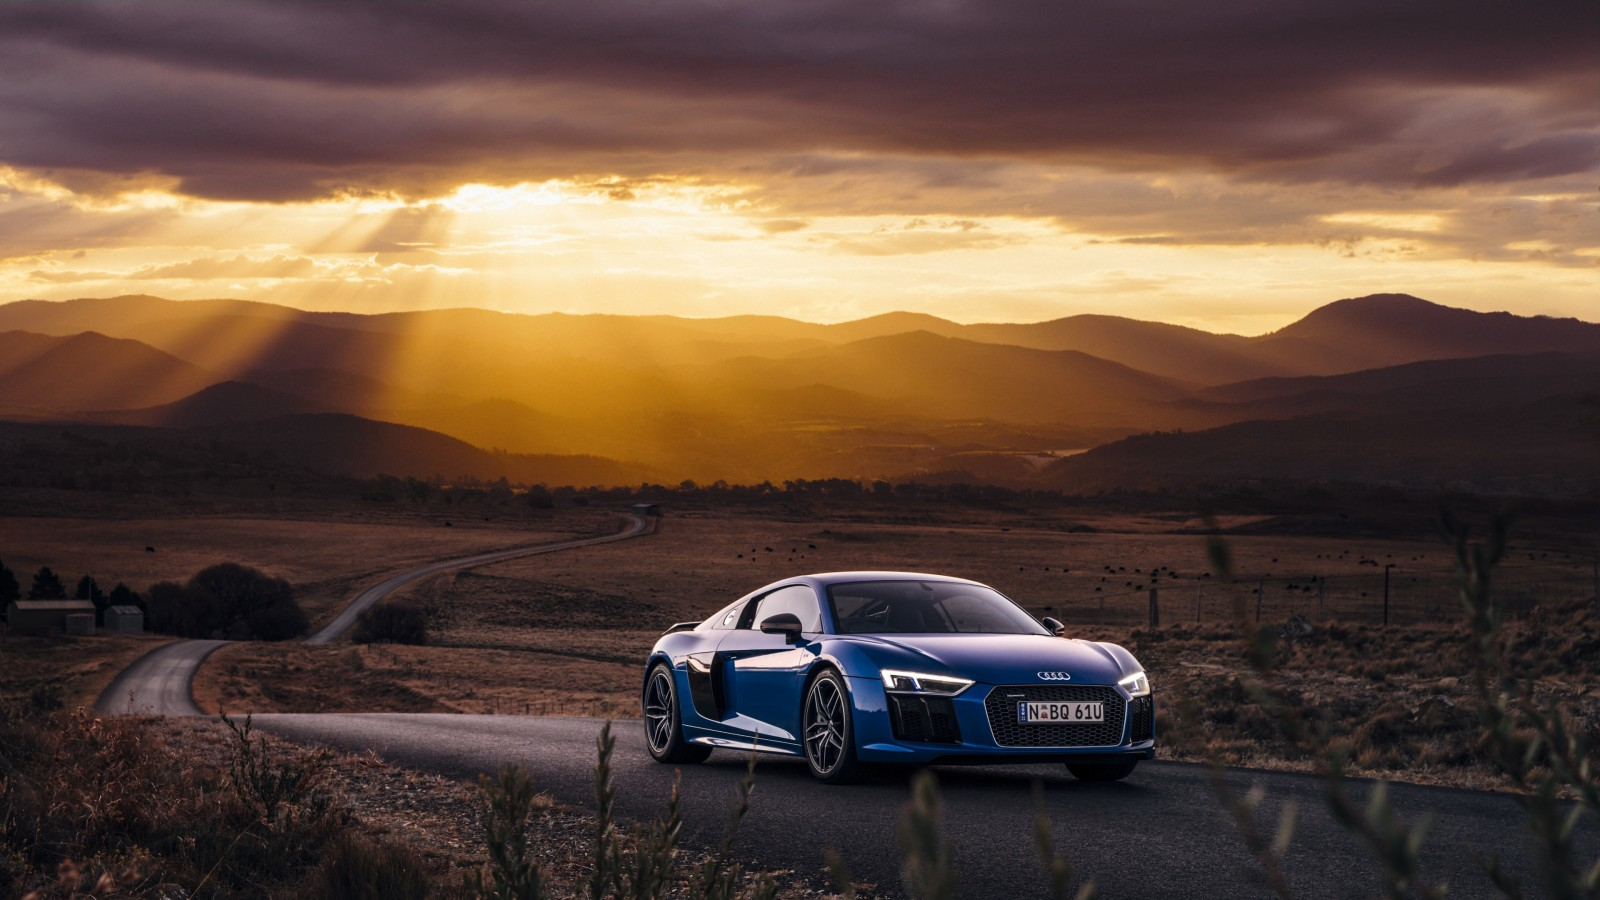
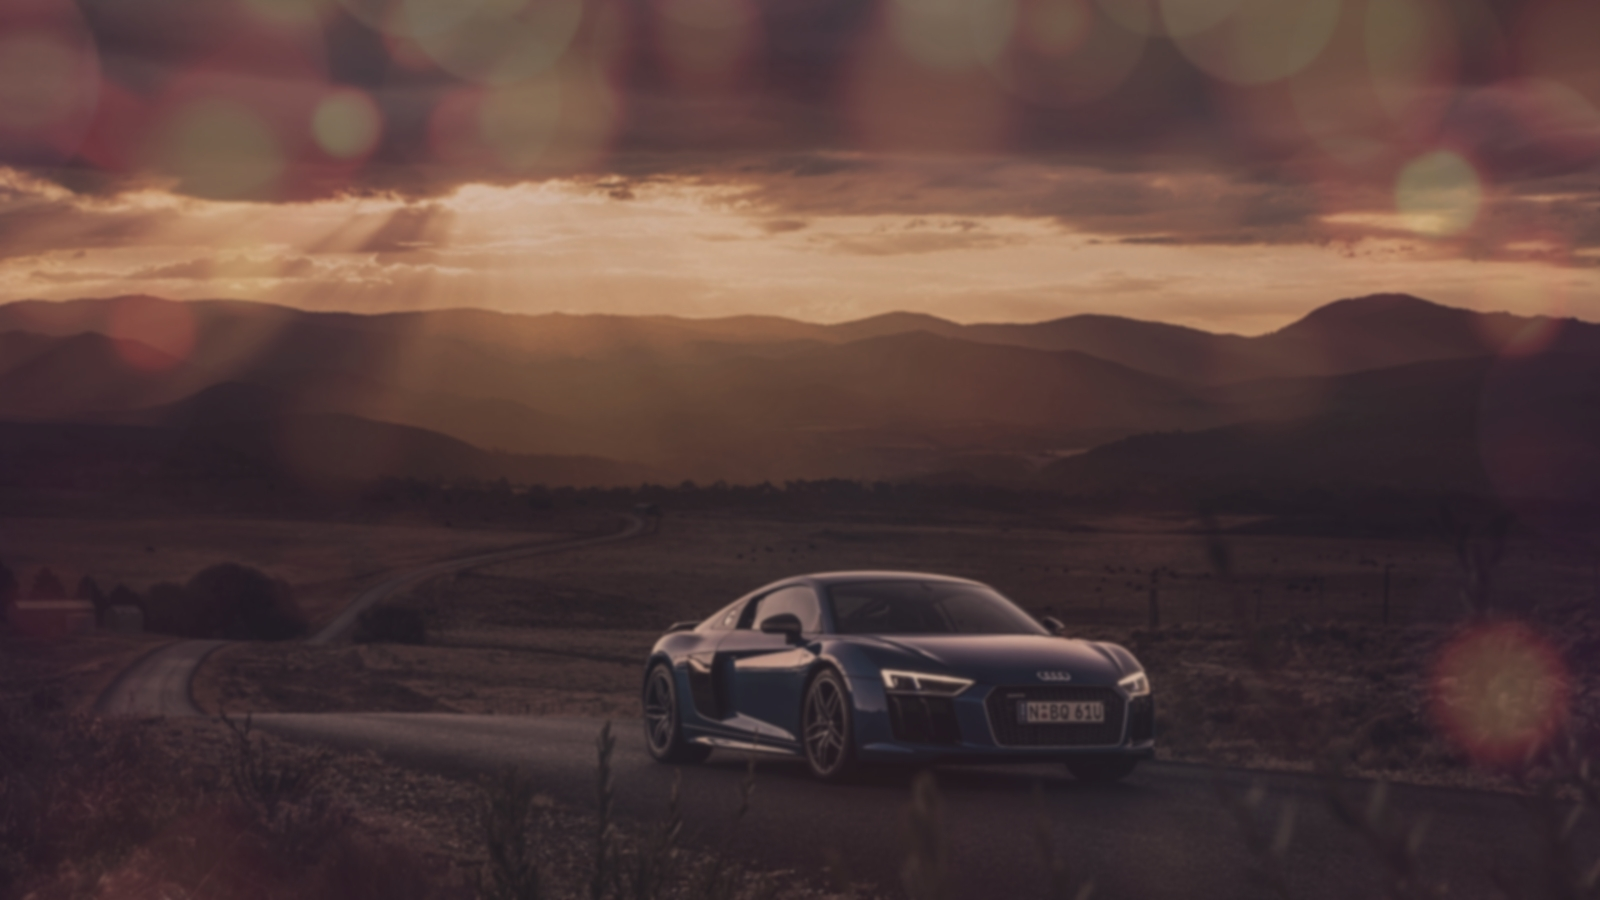
design changes

diff --git a/src/main/resources/templates/header.html b/src/main/resources/templates/header.html
@@ -3,13 +3,13 @@
 <html xmlns:th="http://www.thymeleaf.org">
 
 <body class="bg-main">
-        <link rel="stylesheet" href="https://cdnjs.cloudflare.com/ajax/libs/font-awesome/4.7.0/css/font-awesome.min.css">
+    <link rel="stylesheet" href="https://cdnjs.cloudflare.com/ajax/libs/font-awesome/4.7.0/css/font-awesome.min.css">
 
-    <nav class="navbar navbar-expand-lg navbar-dark w-100 bg-main pt-3 pb-3" th:fragment="copy">
-        <div class="container-fluid">
+    <nav class="navbar navbar-expand-lg navbar-dark w-100 bg-main pt-4 pb-2" th:fragment="copy">
+        <div class="container-fluid row">
 
             <!-- Linke Elemente-->
-            <ul class="nav navbar-nav">
+            <ul class="nav navbar-nav mr-auto">
 
                 <li class="nav-item">
                     <button class="btn">
@@ -36,13 +36,14 @@
             <!-- 
                     ÜBERSCHRIFT
                     DIV, damit Element zentriert werden kann-->
-            <div class="nav-item">
-                <a class="navbar-brand fixed" th:href="@{/index}">EXCLUSIVE CAR RENTAL</a>
+            <div class="nav-item mx-auto">
+                <a class="navbar-brand mx-auto" th:href="@{/index}">
+                    <h4>EXCLUSIVE CAR RENTAL</h4>
+                </a>
             </div>
 
-
             <!-- Rechte Elemente-->
-            <ul class="nav navbar-nav">
+            <ul class="nav navbar-nav ml-auto">
 
                 <!-- DROPDOWN LOGIN-->
                 <li class="nav-item">

diff --git a/src/main/resources/static/css/main.css b/src/main/resources/static/css/main.css
@@ -106,14 +106,15 @@ BOOTSTRAP
 
 .bg-main {
   position: relative;
-  
+  background-image: url("/img/hintergrund.jpg");
+  background-attachment: fixed;
 }
 
+/*
 .bg-main::after {
   background-image: url("/img/hintergrund.jpg");
   background-attachment: fixed; 
   content: ' ';
-  display: block;
   position: absolute;
   left: 0;
   top: 0;
@@ -121,12 +122,12 @@ BOOTSTRAP
   height: 100%;
   z-index: -1;
   opacity: 0.9;
-  background-position: 50% 50%;
+  background-size: auto;
+  background-repeat: no-repeat;
+  background-position: center;
 }
+*/
 
-.bg-header {
-  background: rgba(248, 249, 250, 0.20);
-}
 
 .text-main {
   color: #515266;
@@ -223,7 +224,9 @@ color: #FFE5AA;
 }
 
 .category {
-  background-color: rgba(0, 0, 0, 0.4)
+  background-color: rgba(0, 0, 0, 0.5);
+  border-radius: 2px;
+  border: 0px;
 }
 
 .jumbotron-porsche:hover .overlay {
@@ -295,7 +298,7 @@ article, aside, figcaption, figure, header, hgroup, main, nav, section {
 
 footer {
   display: block;
-  background-color: rgba(203, 190, 181, 0.9);
+  background-color: rgb(81, 82, 102, 0.5);
 }
 
 body {

diff --git a/src/main/resources/templates/user/add-user.html b/src/main/resources/templates/user/add-user.html
@@ -1,12 +1,6 @@
-<form action="#"
-    th:action="@{/update/{id}(id=${user.id})}"
-    th:object="${user}"
-    method="post">
+<form action="#" th:action="@{/update/{id}(id=${user.id})}" th:object="${user}" method="post">
     <label for="name">Name</label>
-    <input type="text"
-        th:field="*{name}"
-        id="name"
-        placeholder="Name">
+    <input type="text" th:field="*{name}" id="name" placeholder="Name">
     <span th:if="${#fields.hasErrors('name')}" th:errors="*{name}"></span>
     <label for="email">Email</label>
     <input type="text" th:field="*{email}" id="email" placeholder="Email">

diff --git a/src/main/resources/templates/login.html b/src/main/resources/templates/login.html
@@ -45,7 +45,9 @@
     <br>
     <br>
     <!-- FOOTER-->
+    <div class="fixed-bottom">
         <div th:insert="~{footer :: copy}"></div>
+    </div>
 
     <!-- SKRIPTE-->
     <script th:src="@{/webjars/jquery/jquery.min.js}"></script>

diff --git a/src/main/resources/templates/register.html b/src/main/resources/templates/register.html
@@ -62,8 +62,11 @@
 
     <br>
     <br>
+    
     <!-- FOOTER-->
-    <div th:insert="~{footer :: copy}"></div>
+    <div class="fixed-bottom">
+        <div th:insert="~{footer :: copy}"></div>
+    </div>
 </body>
 
 </html>

diff --git a/src/main/java/de/gowlr/allcar/web/MainController.java b/src/main/java/de/gowlr/allcar/web/MainController.java
@@ -65,4 +65,10 @@ public class MainController {
     public String adminproductCreateEdit() {
         return "admin/product-create-edit";
     }
+
+    @RequestMapping("/user/add-user")
+    public String userAddUser() {
+        return "user/add-user";
+    }
+
 }
